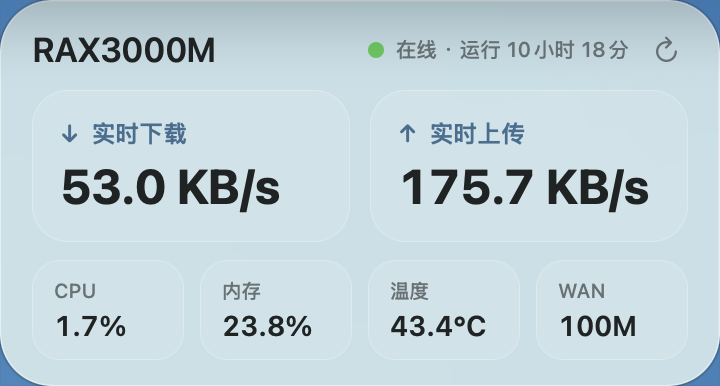
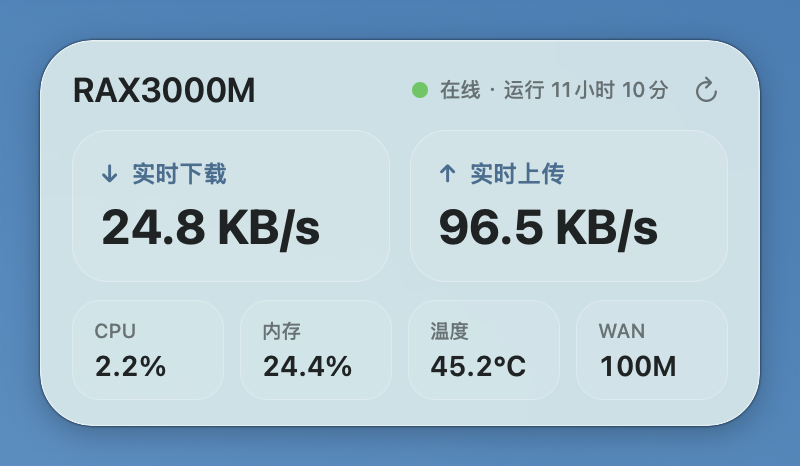
clip glass material to rounded card

diff --git a/macos-router-status-widget/Sources/RouterStatusWidget.swift b/macos-router-status-widget/Sources/RouterStatusWidget.swift
@@ -24,6 +24,8 @@ private struct APISnapshot: Decodable {
 }
 
 private final class LightGlassCardView: NSVisualEffectView {
+    private let roundedMask = CAShapeLayer()
+
     override init(frame frameRect: NSRect) {
         super.init(frame: frameRect)
         material = .underWindowBackground
@@ -36,9 +38,27 @@ private final class LightGlassCardView: NSVisualEffectView {
         layer?.borderWidth = 0.75
         layer?.borderColor = NSColor.white.withAlphaComponent(0.46).cgColor
         layer?.masksToBounds = true
+        roundedMask.fillColor = NSColor.white.cgColor
+        layer?.mask = roundedMask
     }
 
     required init?(coder: NSCoder) { nil }
+
+    override func layout() {
+        super.layout()
+        roundedMask.frame = bounds
+        roundedMask.path = CGPath(
+            roundedRect: bounds,
+            cornerWidth: 26,
+            cornerHeight: 26,
+            transform: nil
+        )
+        maskImage = NSImage(size: bounds.size, flipped: false) { rect in
+            NSColor.white.setFill()
+            NSBezierPath(roundedRect: rect, xRadius: 26, yRadius: 26).fill()
+            return true
+        }
+    }
 }
 
 private final class StatusCardController: NSWindowController {
